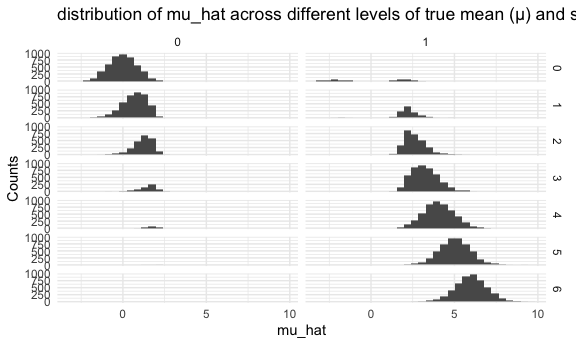
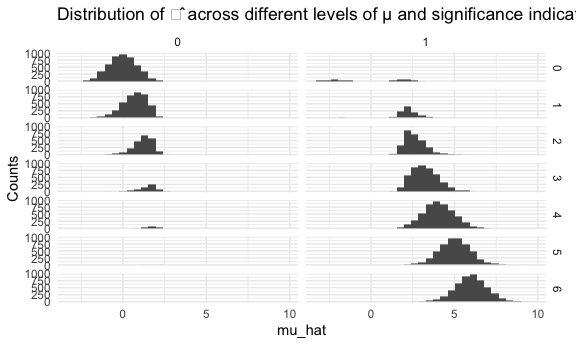
change the plot title

Changed region(s): [[0.0938, 0.0, 1.0, 0.087]]

diff --git a/p8105_hw5_zg2486.md b/p8105_hw5_zg2486.md
@@ -133,7 +133,7 @@ sim_data %>%
   geom_histogram() +
   facet_grid(mu ~ sig_indicator) +
   labs(
-    title = "distribution of mu_hat across different levels of true mean (μ) and significance indicator",
+    title = "Distribution of 𝜇̂ across different levels of μ and significance indicator",
     x = "mu_hat",
     y = "Counts"
   ) +
